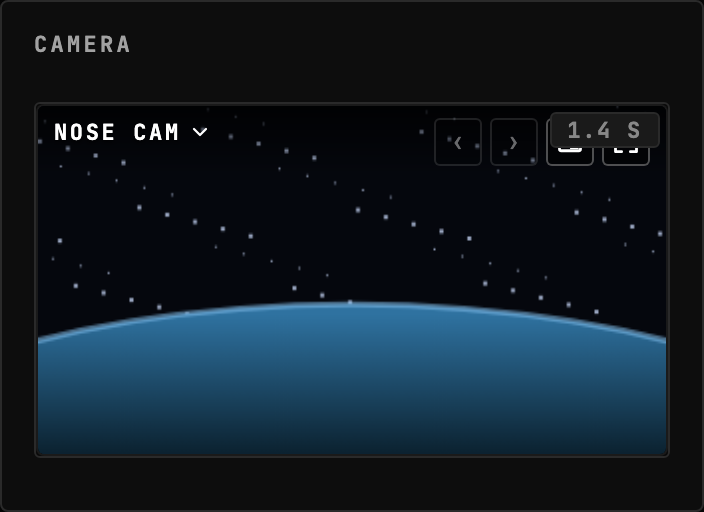
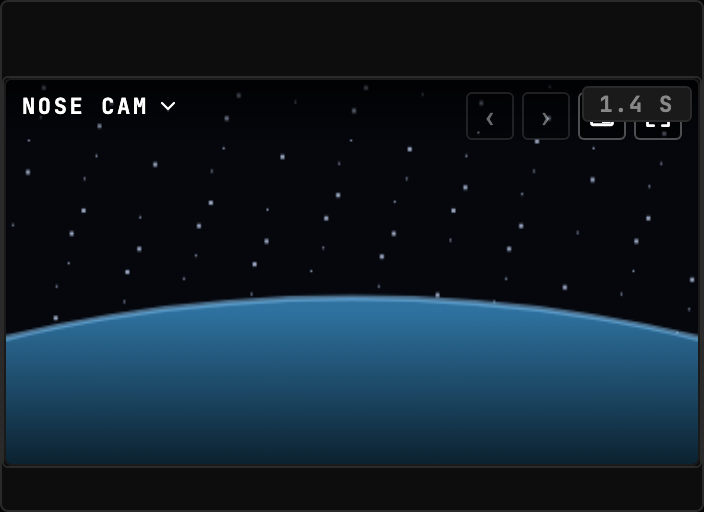
fix(kerbcast): stop naming the camera twice and give the picture the header's room
The SDK's picker already names the instrument, so the panel title was a second name for the same thing costing 32px of width and 47px of height; untitled, Panel takes its headerless path and the picture goes from 316x176 to 348x194.

diff --git a/uplinks/kerbcast/client/src/CameraFeed/CameraFeed.tsx b/uplinks/kerbcast/client/src/CameraFeed/CameraFeed.tsx
@@ -532,19 +532,40 @@ export function CameraFeed({
   // only a panel has: the delay-rail band its own aim commands travel in, the
   // status dots, `panelBadges`, and both universal augment segments.
   //
-  // An ORDINARY header, deliberately, not `floatingHeader`. What the SDK draws
-  // in the picture's top-left is not a title competing with this one, it is the
-  // CAMERA PICKER: a `<button aria-haspopup="menu">` whose label happens to be
-  // the camera's name, and the only way to reach the camera list this widget
-  // advertises. There is no prop to suppress it and suppressing it would delete
-  // the picker, so the two are kept in different boxes instead: the panel names
-  // the instrument in a row above the picture, the feed names the camera inside
-  // it. `floatingHeader` is what puts them in one corner, and it was tried:
-  // "CAMERA" and "STARBOARD CAM" overlap, character on character.
+  // NO `panelTitle`, and that is a naming decision rather than a saving that
+  // happens to be free. What the SDK draws in the picture's top-left is already
+  // the instrument's name: the CAMERA PICKER, a `<button aria-haspopup="menu">`
+  // labelled with the camera's own name ("Starboard Cam"), and the only way to
+  // reach the camera list this widget advertises. There is no prop to suppress
+  // it, so a panel title beside it is a second name for the same thing. It was
+  // first tried as a `floatingHeader`, where "CAMERA" and "STARBOARD CAM"
+  // overlapped character on character, and then as an ordinary header in a row
+  // above the picture, which is where this measurement came from: the header
+  // row, the body inset and the gap under it cost 32px of width and 47px of
+  // height, 33% of a 9x8 tile, all of it taken off a picture that is the whole
+  // point of the widget. Untitled, `Panel` takes the headerless path and the
+  // header collapses to NOTHING rather than to an empty row (measured in
+  // chromium against the vendored kit: the filling section goes from 318x191 to
+  // 350x238 at 9x8), which is what makes this worth doing at all.
+  //
+  // What that costs, said plainly: the picker's name is REVEALED rather than
+  // standing. The SDK fades its whole top overlay in on hover, on focus-within,
+  // or once a click has pinned the chrome, so at rest the tile is the picture
+  // plus this widget's own always-on badges and no words at all. Reached for,
+  // it names the camera; with no camera at all it names the widget, the picker
+  // falling back to the words "Camera Feed" beside the SDK's empty message. A
+  // standing name would have to be drawn in the picture's top-left, which is
+  // the corner the picker takes, and that overlap is what sent the panel title
+  // into a row of its own in the first place.
+  //
+  // The panel is still a panel, and the band is why: the rail moves from the
+  // sticky header unit into the container's own top padding, same height, same
+  // permanence. A contributed badge or a bound `camera-feed.actions` augment
+  // gives the header row back (unnamed, carrying only what was contributed),
+  // and the picture pays the 47px again for as long as it is there.
   return (
     <KerbcastProvider client={client} subscriptions={subscriptions}>
       <Panel
-        panelTitle="CAMERA"
         sections={
           <Section full fill>
             <div ref={stageRef} style={FEED_STAGE_STYLE}>

diff --git a/uplinks/kerbcast/client/src/CameraFeed/CameraFeed.test.tsx b/uplinks/kerbcast/client/src/CameraFeed/CameraFeed.test.tsx
@@ -1636,17 +1636,55 @@ describe("CameraFeed: delayed aim controls", () => {
   it("is a panel, so the aim it commands has a delay rail to travel in", async () => {
     // The widget was a bare `FramedDisplay` and had no rail band, no status
     // dots, no `panelBadges` and neither universal augment segment. There is no
-    // media exemption from `Panel`; the SDK's own hover-gated title is a camera
-    // PICKER drawn inside the picture, and an ordinary panel header sits in a
-    // row above it, so the two never share a corner.
+    // media exemption from `Panel`. What it does NOT take from the panel is a
+    // title: the picker inside the picture already names the instrument, and a
+    // panel title beside it is a second name for the same thing, paid for in
+    // picture. The rail is the half that has to survive that, and it does: it
+    // moves into the container's own top band rather than the header's.
     await buildConnectedSource([STEERABLE]);
 
     const stream = setupStreamFixture({ carriedChannels: COMMS_TOPICS });
     renderFeedWithComms({ flightId: 42 }, stream);
 
     await screen.findByRole("button", { name: /starboard cam/i });
-    expect(screen.getByRole("heading", { name: "CAMERA" })).toBeTruthy();
     expect(document.querySelector("[data-panel-rail-frame]")).toBeTruthy();
+  });
+
+  it("takes no panel title, because the picker already names it", async () => {
+    await buildConnectedSource([STEERABLE]);
+
+    const stream = setupStreamFixture({ carriedChannels: COMMS_TOPICS });
+    renderFeedWithComms({ flightId: 42 }, stream);
+
+    // The name is the picker's, and it is a real control rather than a label:
+    // the only route to the camera list is through the thing that names the
+    // widget. It is also the widget's ONLY heading, which is what dropping the
+    // panel title was for: two headings for one instrument, one of them a name
+    // the operator cannot act on.
+    const picker = await screen.findByRole("button", { name: /starboard cam/i });
+    expect(picker.getAttribute("aria-haspopup")).toBe("menu");
+    const headings = screen.getAllByRole("heading");
+    expect(headings).toHaveLength(1);
+    expect(headings[0]?.contains(picker)).toBe(true);
+    // The panel takes its headerless path rather than drawing an empty header
+    // row, which is the half the picture is paid out of: an empty row would
+    // cost the same 47px of height while naming nothing.
+    expect(document.querySelector("[data-panel-sticky-top]")).toBeNull();
+  });
+
+  it("still names itself when there is no camera to name", async () => {
+    // The state where the picker has no camera name to show. The SDK falls back
+    // to the words "Camera Feed" as the same heading, so the widget that has
+    // given up its panel title still says what it is once it is reached for.
+    // (Reached for is the caveat, and it is the SDK's rule rather than ours:
+    // the whole top overlay is revealed on hover, focus or a pinning click.)
+    await buildConnectedSource([]);
+
+    renderFeed({ flightId: null });
+
+    const heading = await screen.findByRole("heading", { name: "Camera Feed" });
+    expect(heading).toBeTruthy();
+    expect(document.querySelector("[data-panel-sticky-top]")).toBeNull();
   });
 
   it("gives a steerable camera an aim surface once the link is delayed", async () => {

diff --git a/uplinks/kerbcast/client/src/CameraSetpoint/CameraSetpointSurface.test.tsx b/uplinks/kerbcast/client/src/CameraSetpoint/CameraSetpointSurface.test.tsx
@@ -93,19 +93,20 @@ describe("CameraSetpointSurface", () => {
   });
 
   it("drops the framing preview when the cluster reaches past the centre line", () => {
-    // 316x176, the picture the widget's own `defaultSize` tile produces. The
-    // cluster's left edge lands at 155 and the picture's centre is 158, so the
-    // centre line itself is under the control and no width of centred tile
-    // clears it. What decides this is the commit: 63 of the cluster's 151px is
-    // the word "COMMIT", and while the commit is a word the picture needs 394
-    // before a centred tile has anywhere to stand.
+    // 348x194, the picture the widget's own `defaultSize` tile produces now
+    // that its host takes no panel title: 32px wider than the 316x176 it drew
+    // with one, and it still does not fit. The cluster's left edge lands at
+    // 187, where half a 64px tile plus 4px of clear air reaches 210. What
+    // decides the 394 it would take is the commit: 63 of the cluster's 151px
+    // is the word "COMMIT", and while the commit is a word a centred tile
+    // needs that much picture before it has anywhere to stand.
     const { rerender } = render(
       <CameraSetpointSurface
         cameraId={42}
         bounds={bounds}
         initial={initial}
         mode="staged"
-        frame={{ width: 316, height: 176 }}
+        frame={{ width: 348, height: 194 }}
       />,
     );
     expect(screen.queryByRole("img", { name: "Camera framing preview" })).toBe(
@@ -114,15 +115,17 @@ describe("CameraSetpointSurface", () => {
     // The numbers are the control and they never go: only the review of them does.
     expect(screen.getByRole("slider", { name: /yaw/i })).toBeTruthy();
 
-    // 236x132, the picture `minSize` produces. Here the cluster is 64% of the
-    // width, so the centre line is buried deeper still.
+    // 268x149, the picture `minSize` produces. Here the cluster is 56% of the
+    // width, so the centre line is buried deeper still. The picture is now
+    // width-limited rather than height-limited: with the title gone the six
+    // rows have height to spare, so the seven columns are what caps it.
     rerender(
       <CameraSetpointSurface
         cameraId={42}
         bounds={bounds}
         initial={initial}
         mode="staged"
-        frame={{ width: 236, height: 132 }}
+        frame={{ width: 268, height: 149 }}
       />,
     );
     expect(screen.queryByRole("img", { name: "Camera framing preview" })).toBe(

diff --git a/uplinks/kerbcast/client/src/CameraFeed/index.tsx b/uplinks/kerbcast/client/src/CameraFeed/index.tsx
@@ -20,12 +20,19 @@ registerComponent<CameraFeedConfig>({
    * CAMERA's aspect rather than the tile's, so width past what the height can
    * use is empty panel either side of the picture.
    *
-   * <p>The chrome takes a fixed 36px of width and 67px of height (the panel
-   * border, the reserved delay-rail band, the title row and the body padding),
-   * measured on the render harness. Eight rows leave 189px of picture height,
-   * which a 16:9 camera would fill at 336px wide; nine columns offer 316px, so
-   * the picture is 316x178 and the cluster is a third of its width and half its
-   * height. A tenth column would buy 40px the height cannot use.</p>
+   * <p>The chrome is now 2px of width and 18px of height: the panel border and
+   * the reserved delay-rail band, and nothing else, the widget having given up
+   * its panel title (see `CameraFeed.tsx`) and with it the header row, the body
+   * inset and the gap under it. That was 32px of width and 47px of height,
+   * measured in chromium against the vendored kit. Nine columns leave 348px of
+   * picture, eight rows 236px, and a 16:9 camera fills the width first, so the
+   * picture is 348x194 where it was 316x176.</p>
+   *
+   * <p>The height is no longer what caps it: 236px of height could carry a
+   * 419px-wide 16:9 picture, so a tenth or eleventh column would now be spent
+   * rather than wasted. Left at nine deliberately, because widening the default
+   * tile is a dashboard-layout decision rather than a chrome one, and eleven
+   * columns is also where the framing preview starts to fit.</p>
    */
   defaultSize: { w: 9, h: 8 },
   /**
@@ -38,6 +45,10 @@ registerComponent<CameraFeedConfig>({
    * 287px of picture in one row, and that row is gone; what is left is the
    * cluster's own 110px plus its inset, and the 219px a 16:9 camera draws into
    * 123px of height. 255px of tile, so seven columns.</p>
+   *
+   * <p>Both numbers held while the panel title went: the title cost height the
+   * 16:9 fit was spending anyway here, so the same seven columns now draw a
+   * 268x149 picture rather than 220x122.</p>
    */
   minSize: { w: 7, h: 6 },
   // On MobileDashboard a widget without this squishes to

diff --git a/uplinks/kerbcast/client/src/CameraSetpoint/CameraSetpointInput.tsx b/uplinks/kerbcast/client/src/CameraSetpoint/CameraSetpointInput.tsx
@@ -105,7 +105,7 @@ const COMMIT_WIDTH_PX = 63;
  * Composed from its parts rather than written down, so it cannot go stale
  * behind a change to a wheel's size. The commit is IN it now, because it is on
  * the same line: `orientation="row"` trades its whole line of height for its
- * own width, which is the trade a control drawn on a 176px-tall picture wants.
+ * own width, which is the trade a control drawn on a 194px-tall picture wants.
  */
 export const SETPOINT_INPUT_WIDTH_PX =
   WHEEL_LONG_PX +
@@ -226,8 +226,8 @@ export function CameraSetpointInput({
         gatedReason={gatedReason}
         commitLabel={commitLabel}
         /* Beside the wheels, not under them. Under, the commit cost a whole
-           line: a 52px block of wheels drew an 88px cluster, half the height of
-           the 176px picture the widget's own default tile produces. Beside, it
+           line: a 52px block of wheels drew an 88px cluster, nearly half the
+           height of the 194px picture the default tile produces. Beside, it
            costs its width instead, on the axis the corner has more of. */
         orientation="row"
         /* One block, always. The children here are a single laid-out div, so a

diff --git a/uplinks/kerbcast/client/src/CameraSetpoint/CameraSetpointSurface.integration.test.tsx b/uplinks/kerbcast/client/src/CameraSetpoint/CameraSetpointSurface.integration.test.tsx
@@ -81,8 +81,12 @@ describe("delayed camera control, end to end", () => {
       // the store has to sit where both can see it. The dashboard mounts one per
       // grid item; `renderWidget` mounts one too.
       <DelayRailProvider>
+        {/* Untitled, which is the panel shape `CameraFeed` actually renders: it
+            takes no title (the SDK's picker names the widget), so the rail lives
+            in the container's own top band rather than inside a header's sticky
+            unit. A harness that kept a title would prove the band on a shape
+            this surface is never drawn in. */}
         <Panel
-          panelTitle="CAMERA"
           sections={
             <Section full>
               <CameraSetpointSurface

diff --git a/uplinks/kerbcast/client/src/CameraSetpoint/CameraSetpointSurface.tsx b/uplinks/kerbcast/client/src/CameraSetpoint/CameraSetpointSurface.tsx
@@ -125,7 +125,7 @@ const CLUSTER_WIDTH_PX = SETPOINT_INPUT_WIDTH_PX + CLUSTER_CHROME_PX;
  * one: the tile grew the cluster, so what it cost was how much of the shot the
  * cluster covered, and the rule was an area cap. Bottom-centre of the picture
  * the tile costs the cluster nothing and the shot almost nothing (64px of a
- * 316px picture), and the only thing it can run into is the cluster itself,
+ * 348px picture), and the only thing it can run into is the cluster itself,
  * which is right-anchored and reaches back past the centre line. So the rule is
  * CLEARANCE: half a tile plus a gap, measured from the centre of the picture,
  * has to stop short of the cluster's left edge.

diff --git a/uplinks/kerbcast/client/README.md b/uplinks/kerbcast/client/README.md
@@ -52,7 +52,7 @@ Live camera streams from in-flight Hullcam VDS parts, with an in-widget camera p
 
 ![The same widget at 9 × 8](docs/assets/camera-feed-fixed--mobile-9x8.png)
 
-![A camera that can be aimed, above the staged delay threshold: yaw and zoom stack beside a pitch wheel that is the same wheel turned a quarter turn, with the commit and a framing preview on the same line, in the picture's bottom-right corner. The kerbcast feed's own live pan pad and zoom pair have stood down for as long as this is up, so the corner they held is the corner this takes and there is only ever one control aiming the camera](docs/assets/camera-feed-steerable--default.png)
+![A camera that can be aimed, above the staged delay threshold: yaw and zoom stack beside a pitch wheel that is the same wheel turned a quarter turn, with the commit on the same line, in the picture's bottom-right corner. The kerbcast feed's own live pan pad and zoom pair have stood down for as long as this is up, so the corner they held is the corner this takes and there is only ever one control aiming the camera. The framing preview is no longer inside that cluster: it stands on its own at the bottom centre of the picture, where nothing clips the quad it deliberately draws outside the feed frame, and it appears on any picture whose centre line is clear of the control](docs/assets/camera-feed-steerable--default.png)
 
 ![The same widget at its minimum size](docs/assets/camera-feed-steerable--min.png)
 
